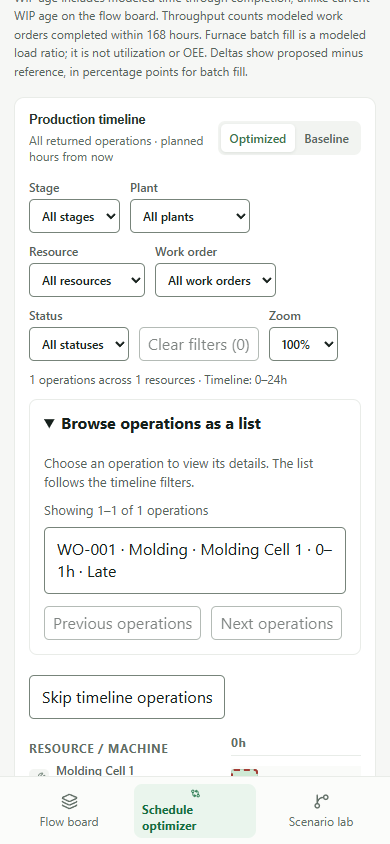
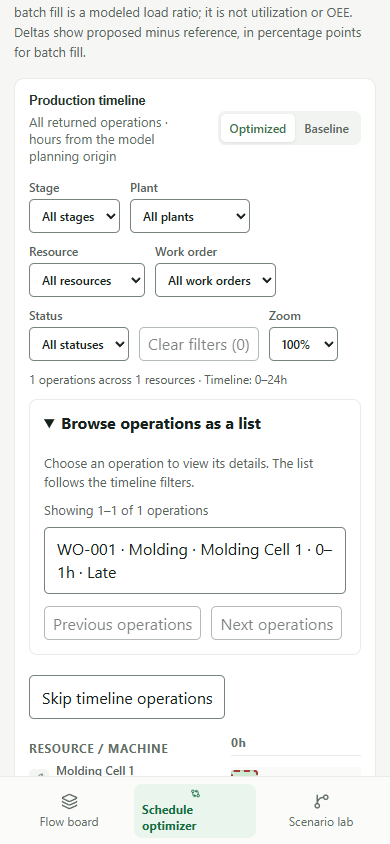
Improve operation list accessibility and text legibility

diff --git a/frontend/src/styles.css b/frontend/src/styles.css
@@ -355,7 +355,7 @@ a {
   vertical-align: 4px;
 }
 .heading-sub {
-  font-size: 12px;
+  font-size: 13px;
   color: var(--text-secondary);
   margin: 8px 0 0;
 }
@@ -476,7 +476,7 @@ a {
   display: flex;
   align-items: center;
   gap: 6px;
-  font-size: 12px;
+  font-size: 13px;
   color: var(--muted);
 }
 .tiny-status {
@@ -510,7 +510,7 @@ a {
   letter-spacing: -0.25px;
 }
 .panel-heading p {
-  font-size: 12px;
+  font-size: 13px;
   color: var(--muted);
   margin: 5px 0 0;
 }
@@ -674,7 +674,7 @@ a {
   color: #435148;
 }
 .alert-row > div span {
-  font-size: 12px;
+  font-size: 13px;
   color: var(--text-secondary);
   line-height: 1.4;
 }
@@ -702,7 +702,7 @@ a {
   gap: 4px;
 }
 .empty-alert small {
-  font-size: 12px;
+  font-size: 13px;
   color: var(--text-secondary);
 }
 .scenario-shortcut {
@@ -736,7 +736,7 @@ a {
   color: #445249;
 }
 .scenario-shortcut small {
-  font-size: 12px;
+  font-size: 13px;
   color: var(--text-secondary);
 }
 .scenario-shortcut > svg {
@@ -777,7 +777,7 @@ a {
 }
 .capability-panel p:last-child {
   margin: 5px 0 0;
-  font-size: 12px;
+  font-size: 13px;
   color: var(--text-secondary);
   line-height: 1.45;
 }
@@ -906,7 +906,7 @@ a {
 .metric-caption {
   margin: -3px 0 16px;
   color: var(--text-secondary);
-  font-size: 12px;
+  font-size: 13px;
   line-height: 1.55;
 }
 .compare-card {
@@ -1021,7 +1021,7 @@ a {
   color: #3c6244;
 }
 .result-banner small {
-  font-size: 12px;
+  font-size: 13px;
   color: var(--muted);
 }
 .result-time {
@@ -1310,7 +1310,7 @@ a {
   color: var(--text-secondary);
 }
 .field-help {
-  font-size: 12px;
+  font-size: 13px;
   color: var(--muted);
   margin: 7px 0 0;
   line-height: 1.5;
@@ -1816,7 +1816,7 @@ a {
     font-size: 16px;
   }
   .stat-foot {
-    font-size: 12px;
+    font-size: 13px;
   }
   .content-grid {
     gap: 9px;

diff --git a/frontend/src/Gantt.test.tsx b/frontend/src/Gantt.test.tsx
@@ -140,10 +140,16 @@ describe('Gantt controls', () => {
     fireEvent.click(screen.getByRole('button', { name: 'Next operations' }))
     expect(screen.getByText('Showing 51–51 of 51 operations')).toBeInTheDocument()
     const listButton = screen.getByRole('button', { name: /WO-50 · Sintering · Furnace.*Late/ })
+    expect(listButton).toHaveAttribute('aria-expanded', 'false')
     fireEvent.click(listButton)
-    expect(screen.getByRole('region', { name: 'Selected operation details' })).toHaveFocus()
+    const detail = screen.getByRole('region', { name: 'Selected operation details' })
+    expect(detail).toHaveFocus()
+    expect(listButton).toHaveAttribute('aria-expanded', 'true')
+    expect(listButton).toHaveAttribute('aria-controls', detail.id)
     fireEvent.keyDown(window, { key: 'Escape' })
     await waitFor(() => expect(listButton).toHaveFocus())
+    expect(listButton).toHaveAttribute('aria-expanded', 'false')
+    expect(listButton).not.toHaveAttribute('aria-controls')
     fireEvent.click(listButton)
     fireEvent.click(screen.getByRole('button', { name: 'Clear selection' }))
     await waitFor(() => expect(listButton).toHaveFocus())

diff --git a/frontend/src/Gantt.tsx b/frontend/src/Gantt.tsx
@@ -234,6 +234,8 @@ export function Gantt({
                     <button
                       type="button"
                       className="operation-list-item"
+                      aria-expanded={selectedOperation === item}
+                      aria-controls={selectedOperation === item ? detailId : undefined}
                       onClick={(event) => {
                         selectedBar.current = event.currentTarget
                         setHovered(null)

diff --git a/frontend/docs/FRONTEND_IMPLEMENTATION_HANDOFF.md b/frontend/docs/FRONTEND_IMPLEMENTATION_HANDOFF.md
@@ -108,6 +108,8 @@ The final responsive pass checked all three populated screens at 320, 390, 768, 
 
 ## Follow-up
 
+- Key explanatory copy on the board, optimizer and scenario screens now uses 13 px text. The 320 px board and 390 px operation list screenshots were refreshed and inspected; the fixture browser flow passed its viewport overflow checks. Other labels and states still need the full legibility review.
+- Operation-list buttons now expose their expanded state and link to the selected details region, matching timeline bars. The Gantt component test covers selection and Escape; screen-reader speech still needs a manual check. The isolated real API walkthrough passed again after the navigation changes.
 - See `BACKEND_REQUESTS.md` for requests and `UI_ACCEPTANCE_CHECKLIST.md` for the open acceptance items.
 - Have a plant planner validate routings, order data, calendars, and model assumptions before using the results for shop-floor decisions.
 - Production use requires a trusted authentication/proxy design. Keep shared API credentials on the server.
